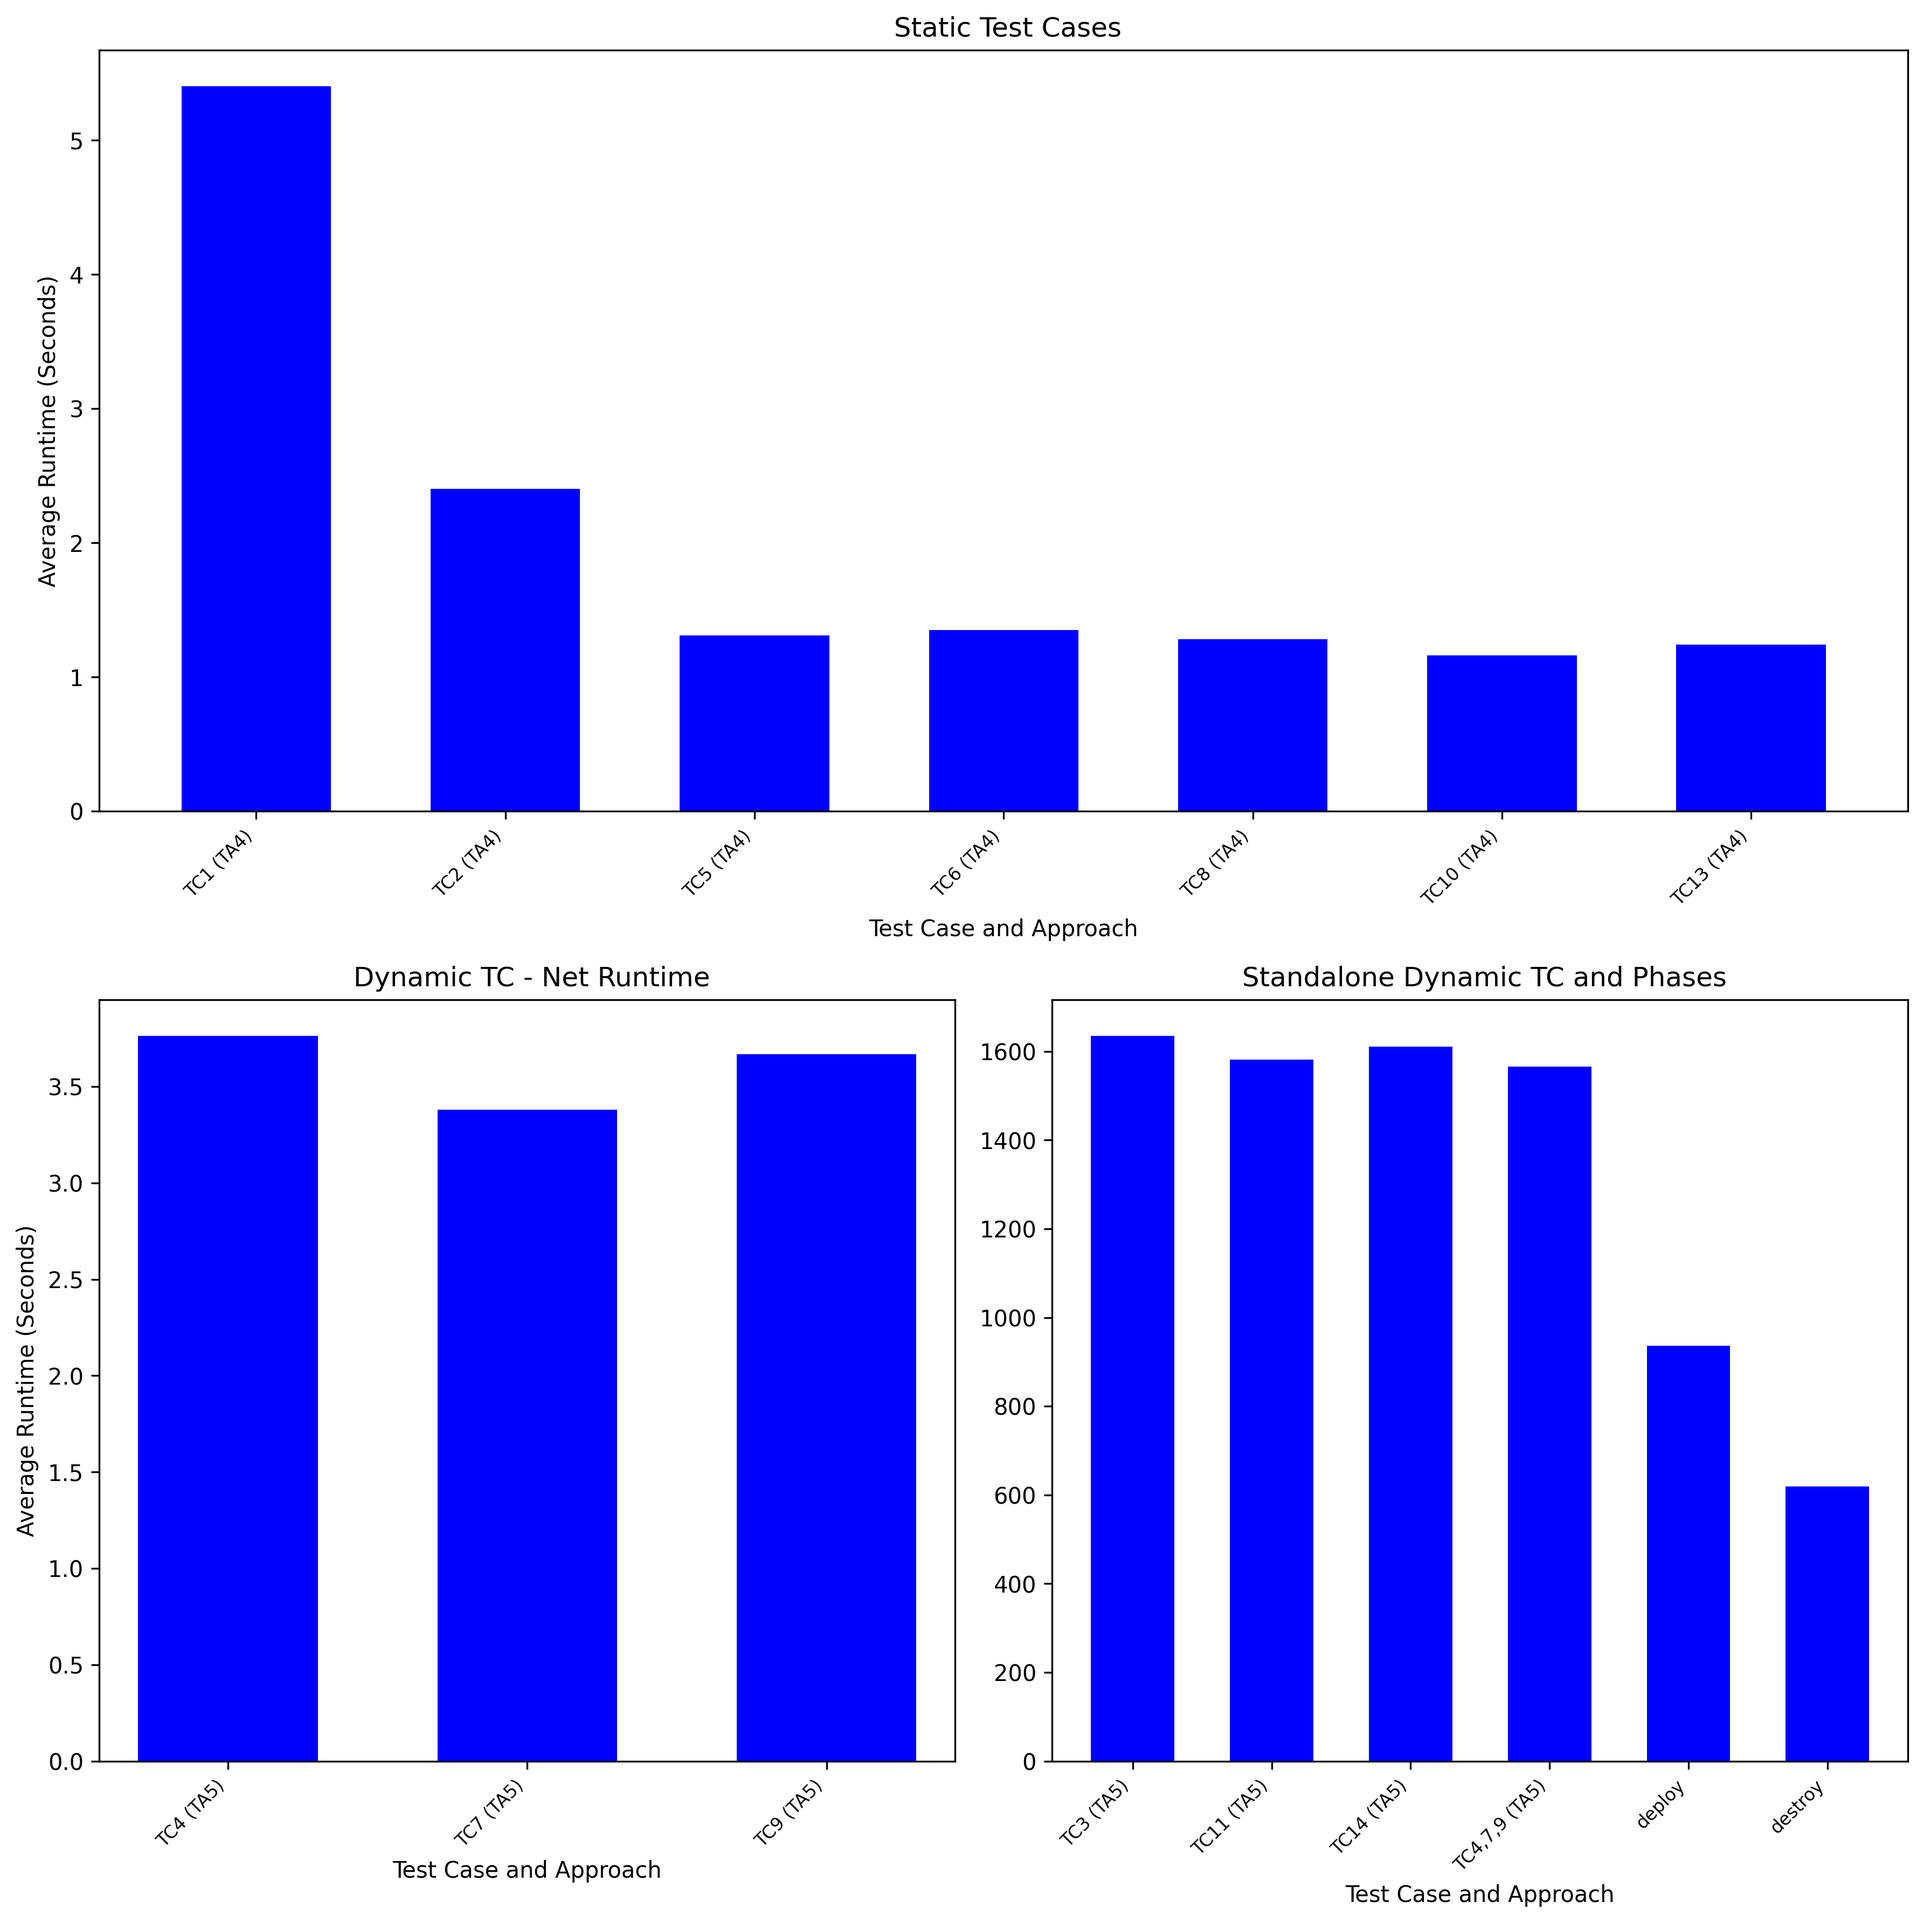
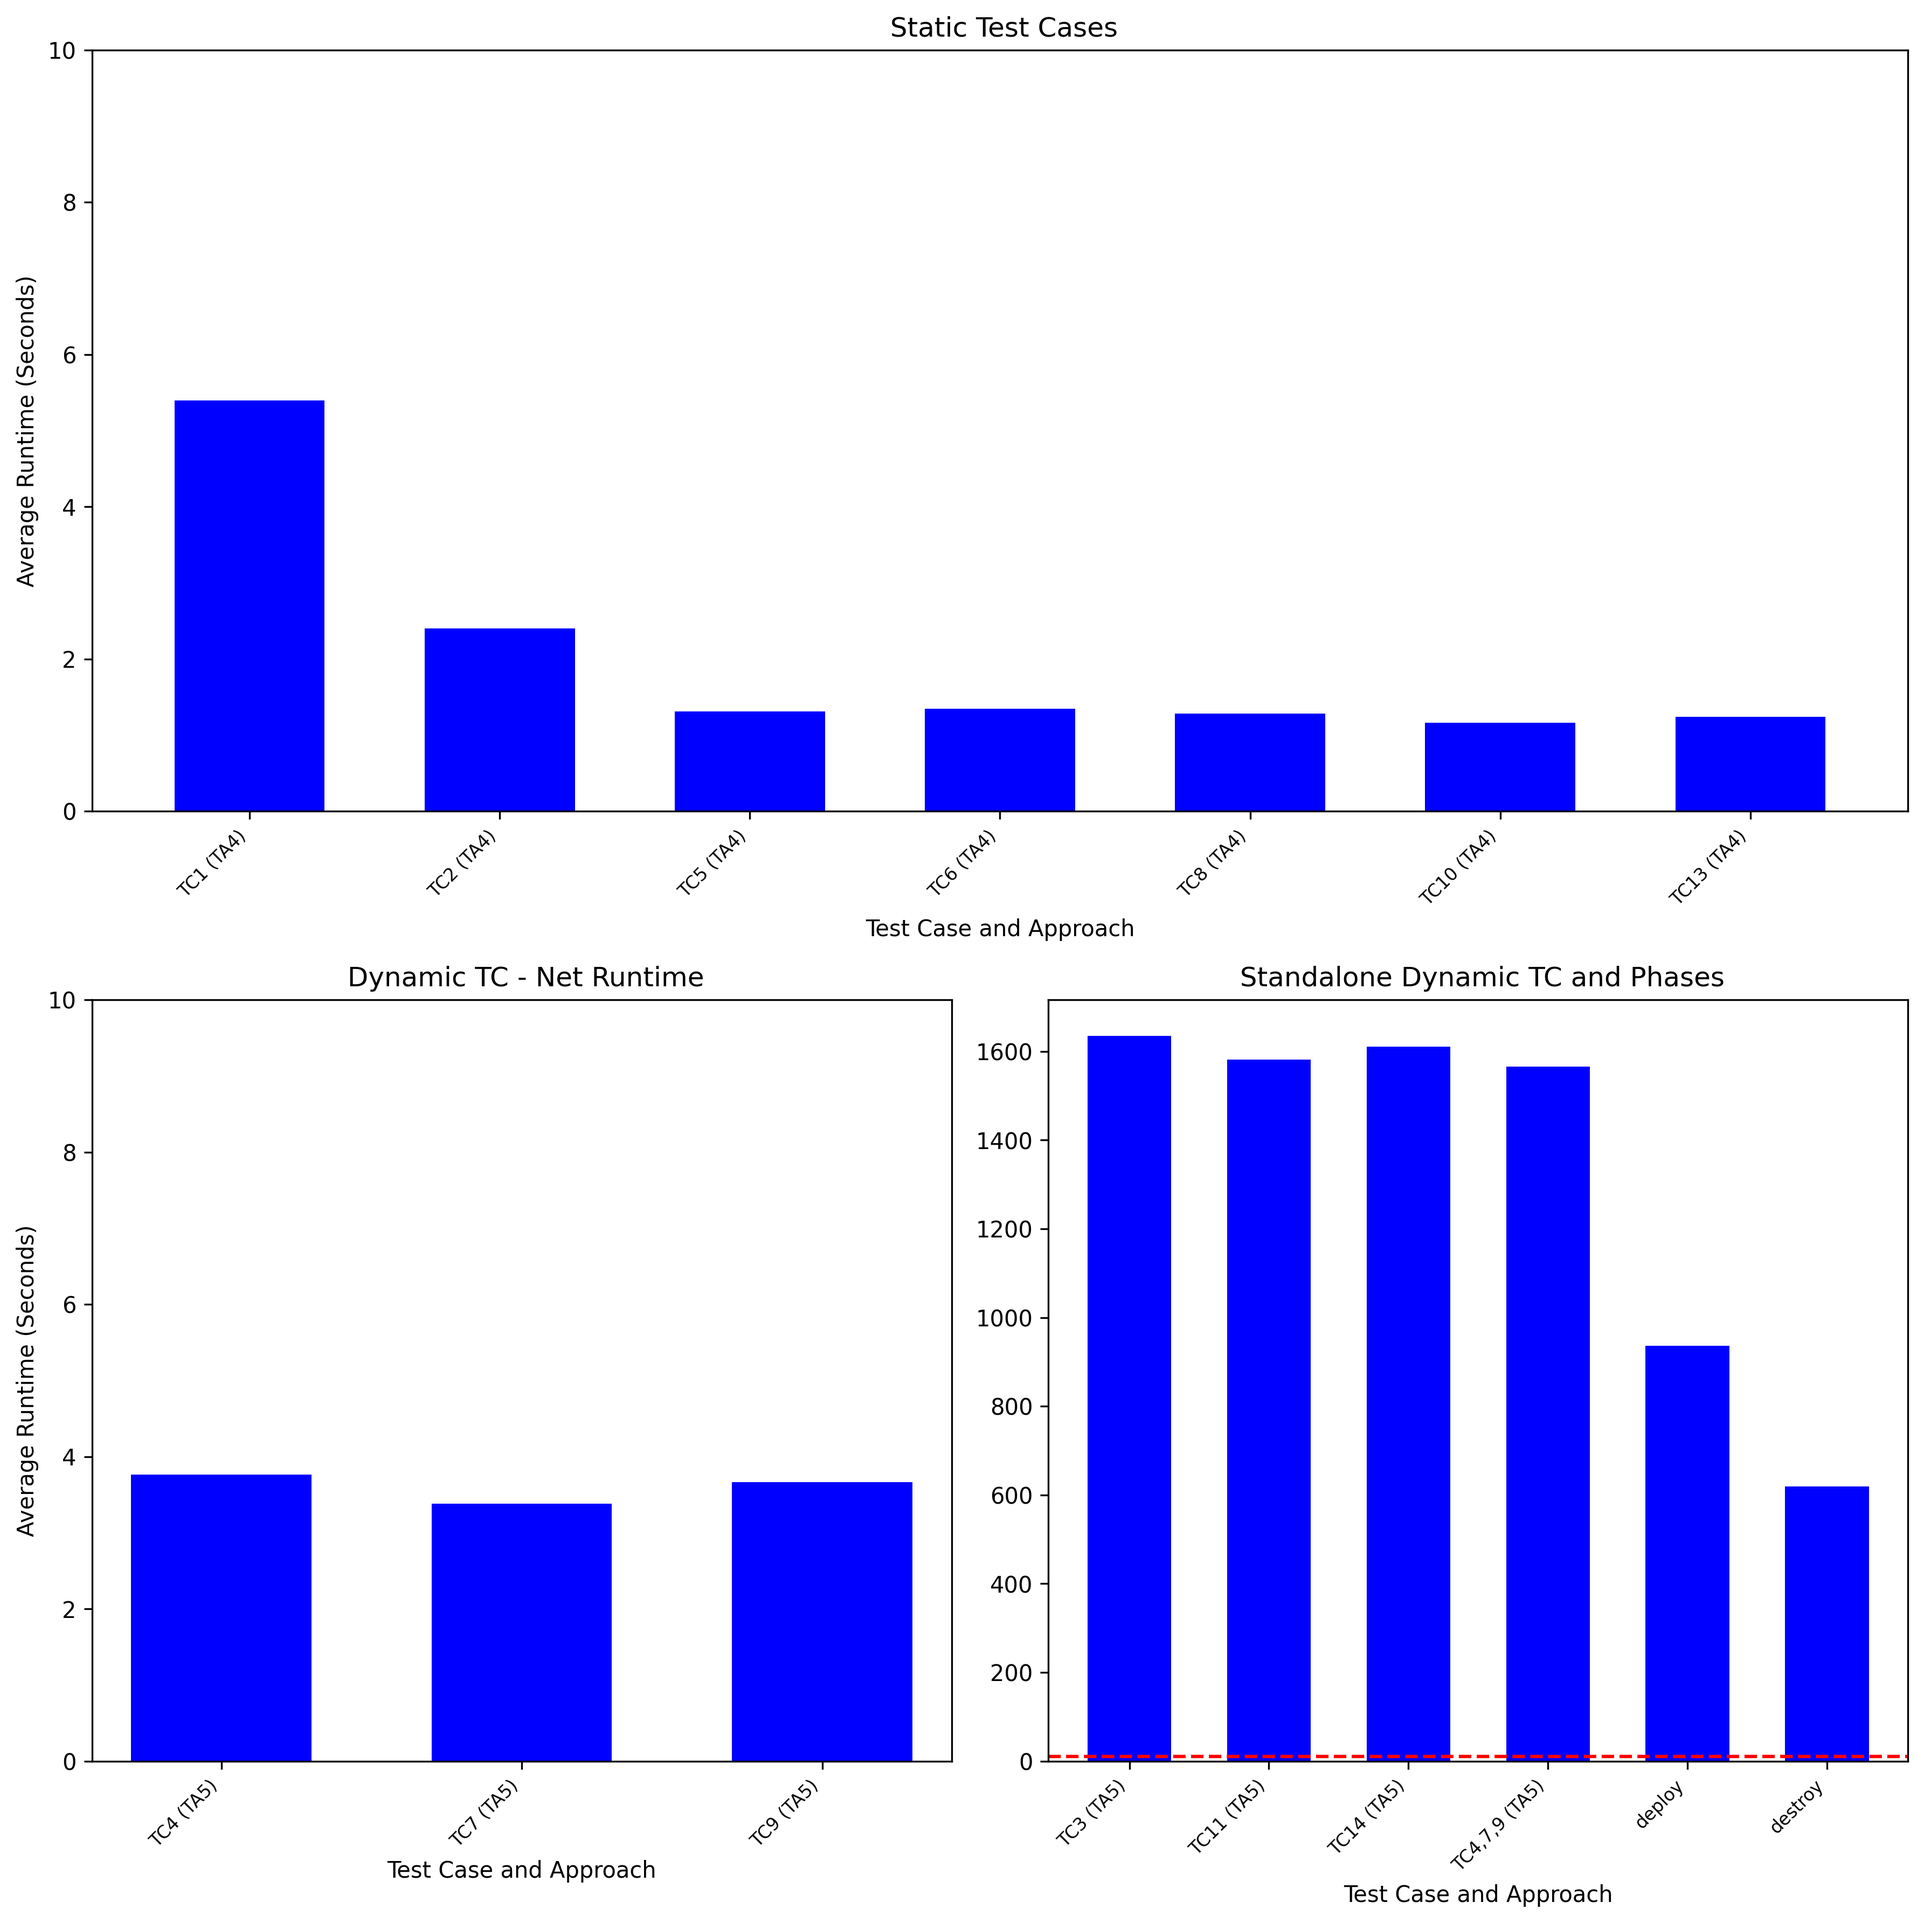
scale avg runtime multiplot

diff --git a/evaluation/scripts/avg_runtime.py b/evaluation/scripts/avg_runtime.py
@@ -174,6 +174,11 @@ def generate_bar_plots(title, data_sets, title_postfixes, xkey, xlabels, ykey, y
     ax1.set_ylabel(ylabel)
     ax1.set_xlabel(xlabels[0])
     ax1.set_title(title + " " + title_postfixes[0])
+    # Apply the 10-second limit or marker based on the data maximum
+    if data[ykey].max() <= 10:
+        ax1.set_ylim(0, 10)  # Fix the y-axis limit to 10 seconds if max is less or equal to 10
+    else:
+        ax1.axhline(y=10, color='red', linestyle='--')  # Add a 10-second marker line if max is greater than 10
 
     # Plot the second and third plots in the second row, sharing the width
     for i in range(1, num_plots):
@@ -185,6 +190,11 @@ def generate_bar_plots(title, data_sets, title_postfixes, xkey, xlabels, ykey, y
         ax.set_ylabel(ylabel if i == 1 else "")  # Only add y-label to the first of the second-row plots
         ax.set_xlabel(xlabels[i])
         ax.set_title(title + " " + title_postfixes[i])
+        # Apply the 10-second limit or marker based on the data maximum
+        if data[ykey].max() <= 10:
+            ax.set_ylim(0, 10)  # Fix the y-axis limit to 10 seconds if max is less or equal to 10
+        else:
+            ax.axhline(y=10, color='red', linestyle='--')  # Add a 10-second marker line if max is greater than 10
 
     plt.tight_layout()
     plt.savefig(output_path, dpi=300, bbox_inches='tight')
@@ -324,7 +334,3 @@ generate_bar_plots(
     ylabel="Average Runtime (Seconds)",
     output_path=os.path.join(diagrams_dir, filename + '.png')
 )
-
-
-
-
